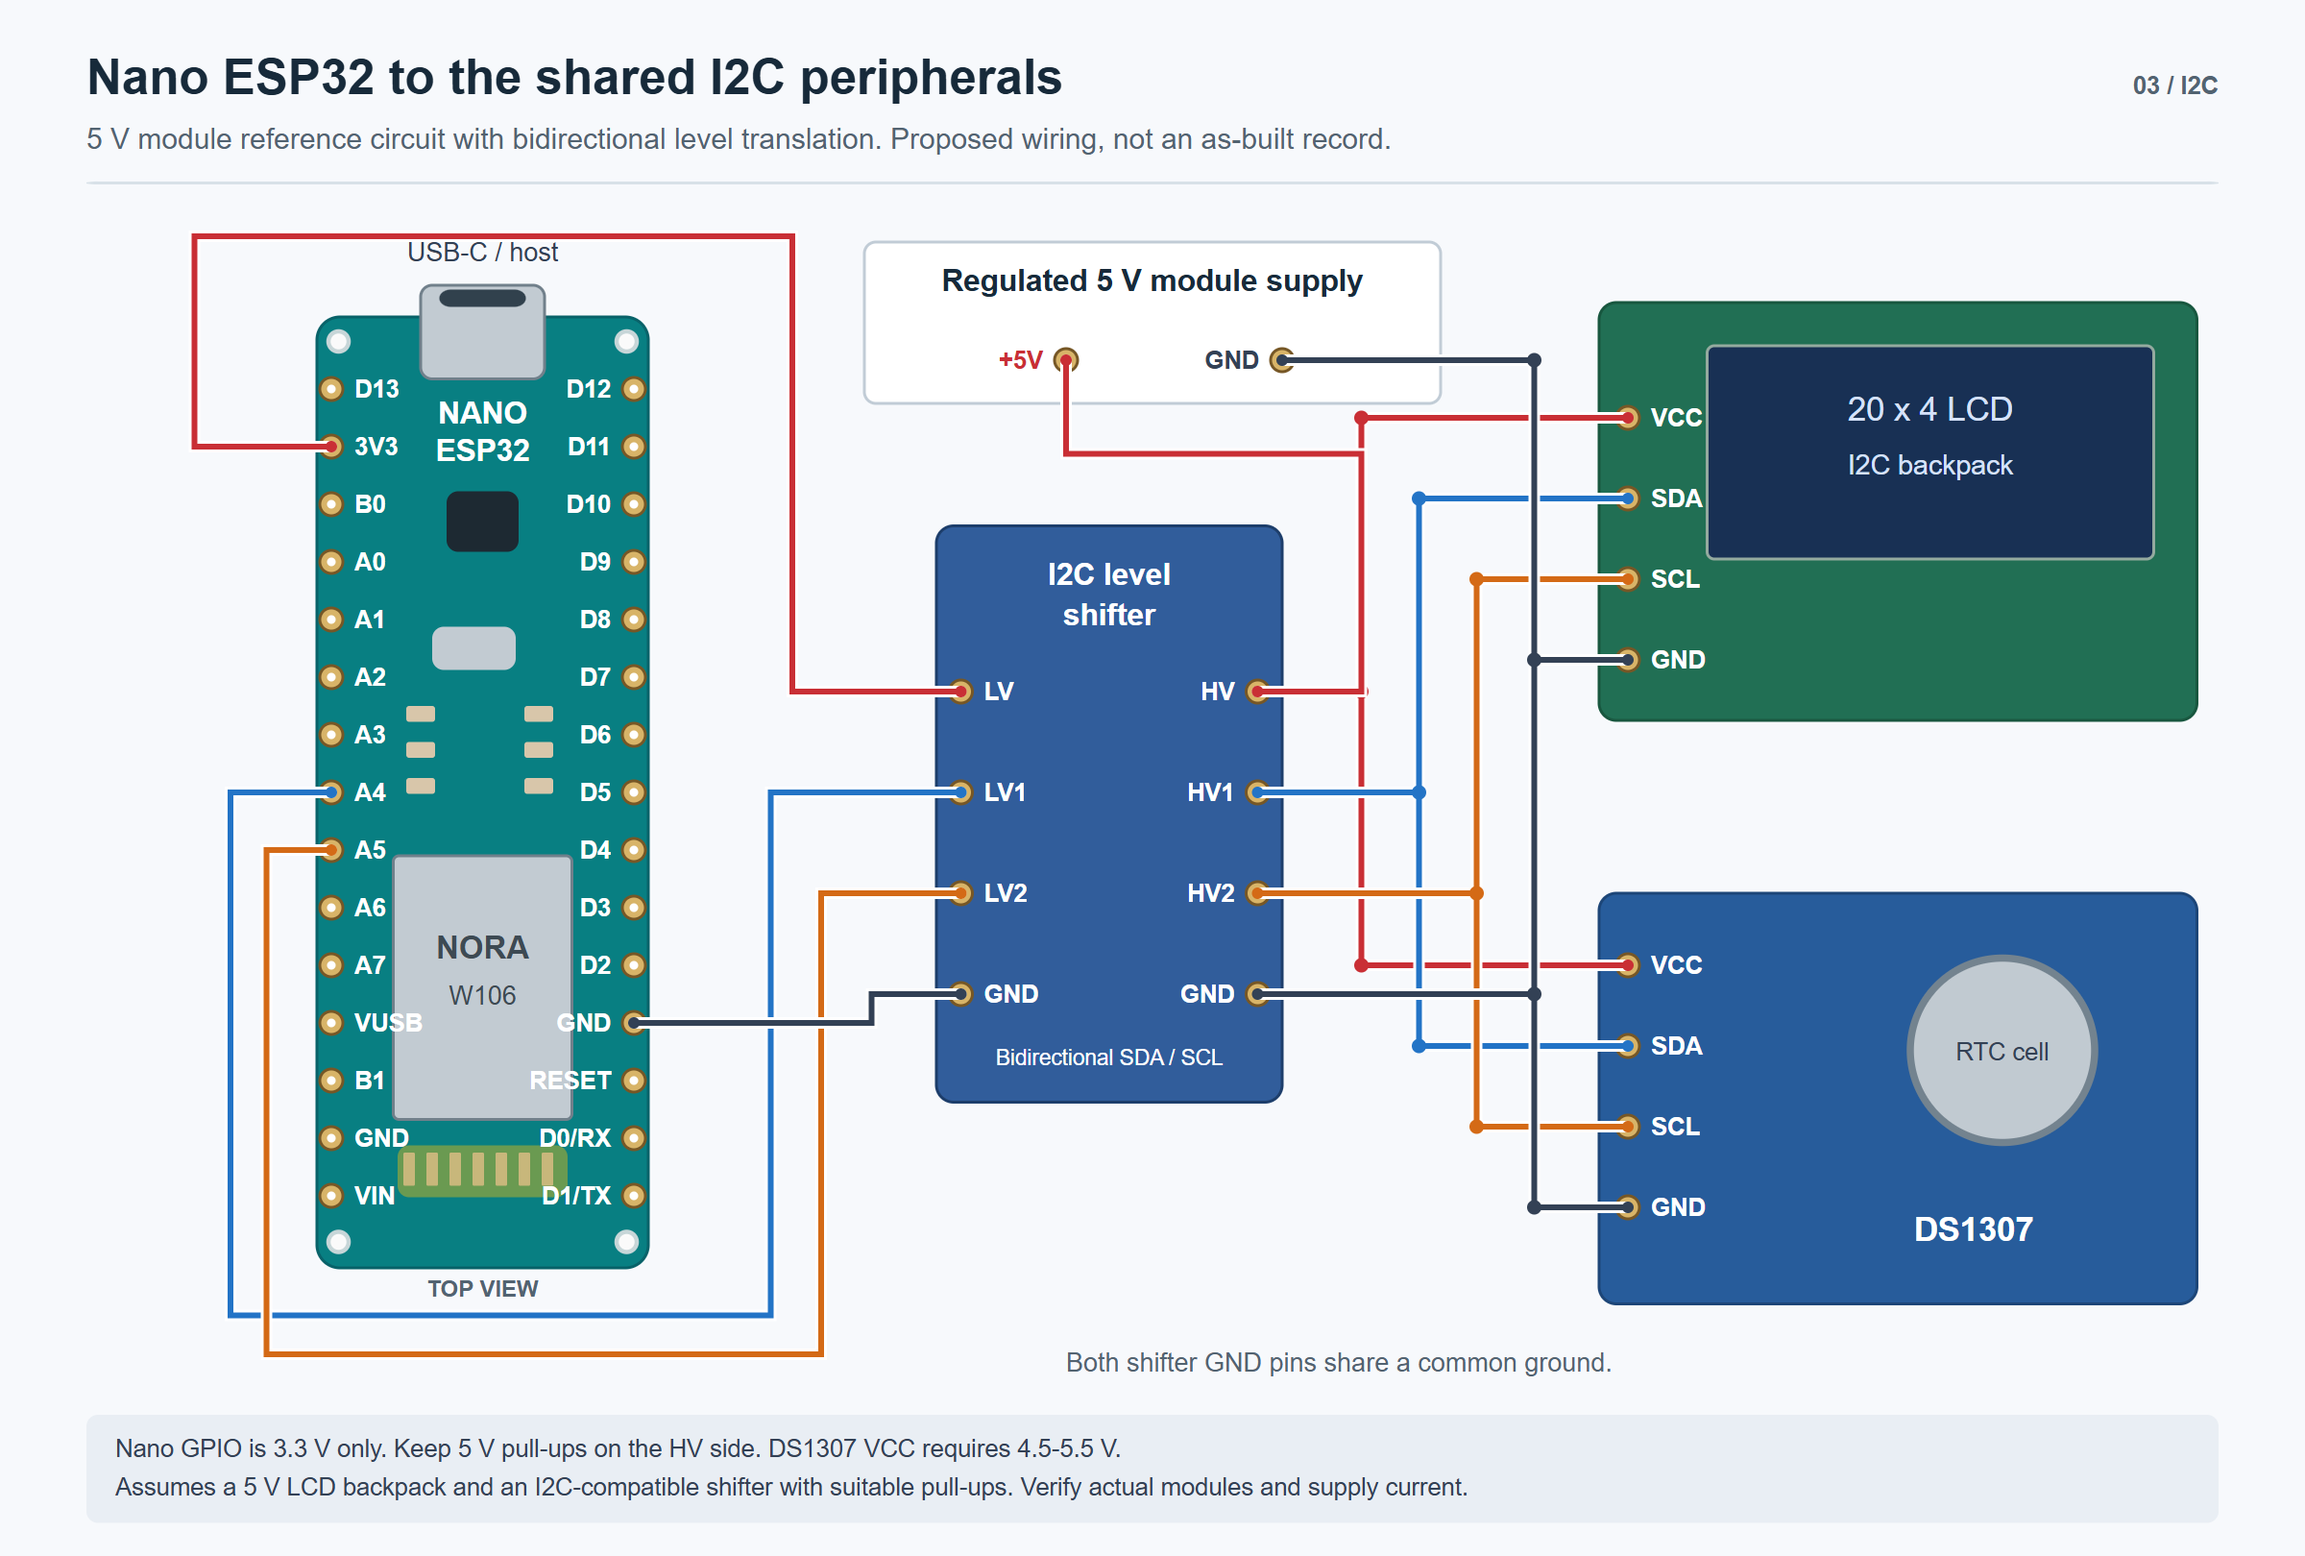
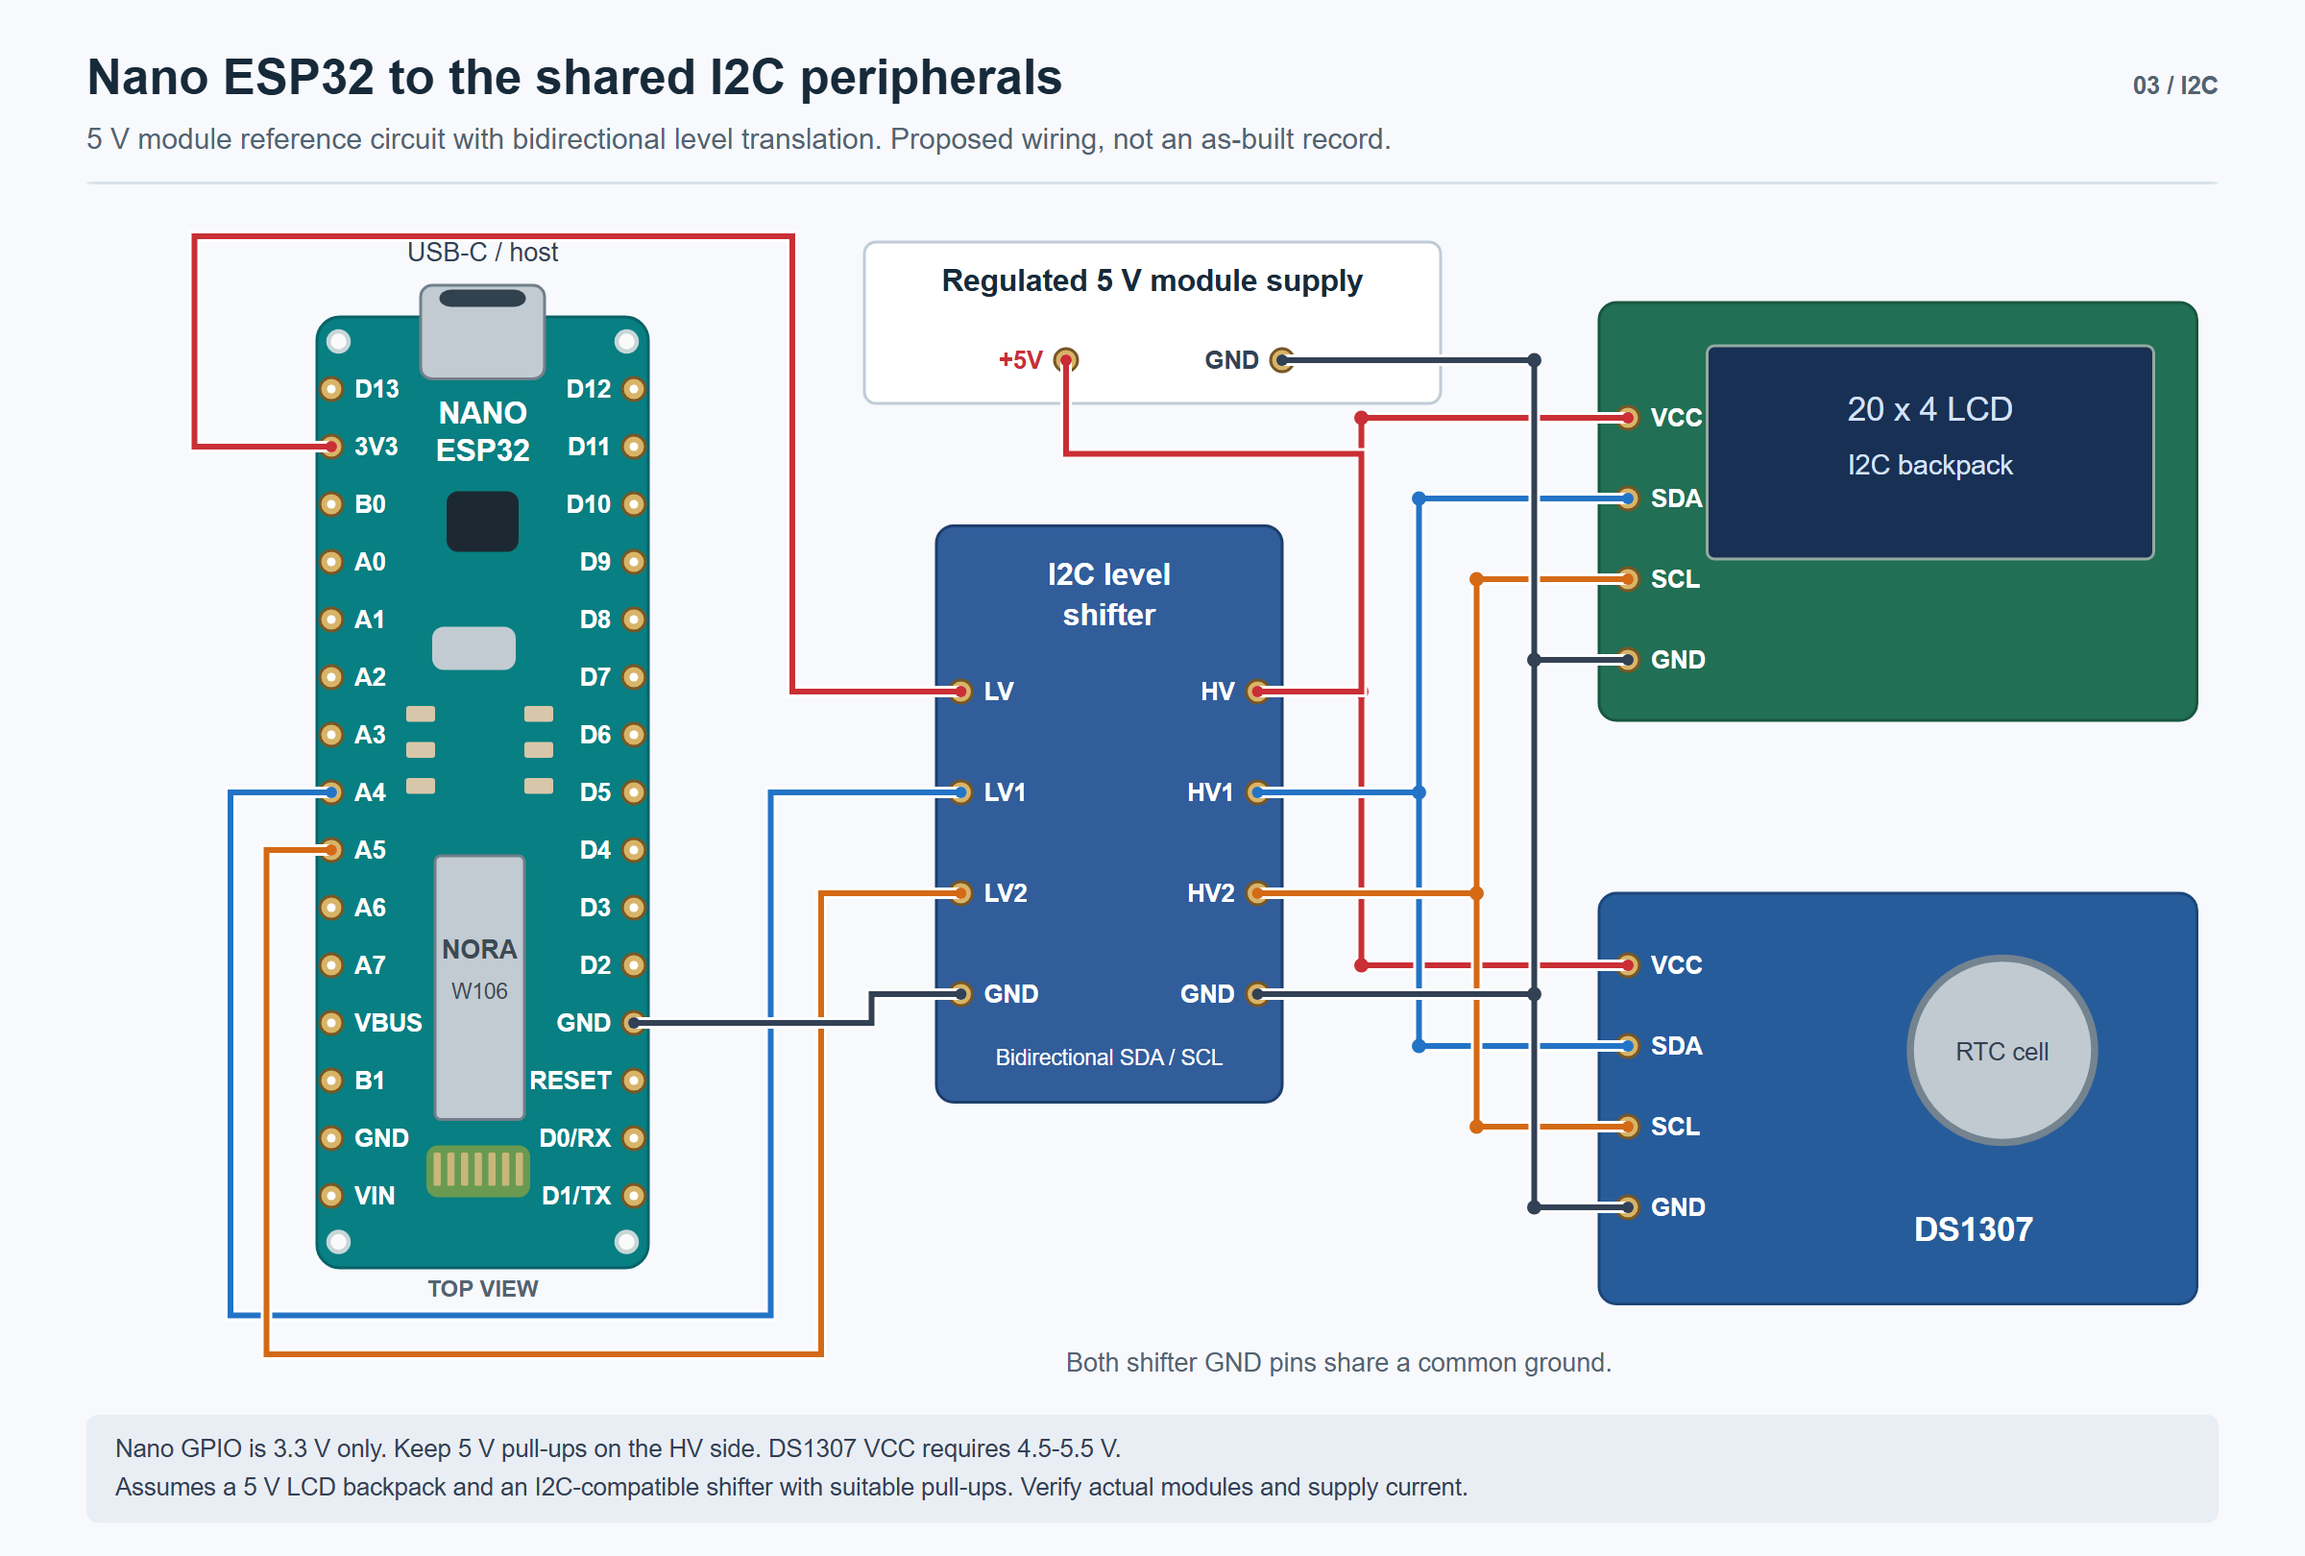
Correct wiring diagrams, add license, remove unused concept image
- Rename the VUSB pin label to VBUS to match the Arduino Nano ESP32 pinout.
- Narrow the module and connector graphics so they no longer overlap the pin
  labels, and re-render the four PNGs from their SVG sources.
- Remove the unused conceptual overview image, which showed a generic ESP32
  dev board rather than the Nano ESP32 used in the build.
- Note that the prototype was disassembled before publication, so there are
  no build photographs.
- Add an MIT license.

Changed region(s): [[0.1562, 0.5247, 0.25, 0.7716]]

diff --git a/docs/hardware.md b/docs/hardware.md
@@ -4,7 +4,7 @@ The original controller is an **Arduino Nano ESP32**. Select **Tools > Pin Numbe
 
 The drawings use the Nano's physical header order, viewed from above with USB-C at the top. Each colored line connects labeled terminals. Crossings without a junction dot are separate wires. Peripheral terminal positions are representative: connect by printed terminal name and check the actual connector order.
 
-The drawings were produced at publication time from the sketch and board documentation; they were not traced from the original breadboard. The RFID and keypad drawings match the pin assignments the prototype ran with. The I2C and buzzer drawings show recommended circuits that differ from the prototype, and each section says how.
+The drawings were produced at publication time from the sketch and board documentation; they were not traced from the original breadboard. The prototype was disassembled before publication, so the repository has no photographs of the build. The RFID and keypad drawings match the pin assignments the prototype ran with. The I2C and buzzer drawings show recommended circuits that differ from the prototype, and each section says how.
 
 ## RFID reader
 

diff --git a/README.md b/README.md
@@ -149,3 +149,7 @@ This is a credential-entry prototype, not a FIDO2/WebAuthn authenticator or a pr
 - Secure boot was deliberately not attempted: enabling it burns eFuses irreversibly, which was judged too risky for a prototype board. This repository contains no secure-boot provisioning, firmware-signing configuration, flash-encryption configuration, or documented attack-test results.
 
 These are design limitations of the prototype, not open defects. See [validation notes](docs/validation.md) for what was verified on hardware, the compile record, and a re-test checklist for anyone rebuilding it.
+
+## License
+
+Released under the [MIT License](LICENSE). Third-party libraries listed above keep their own licenses.
